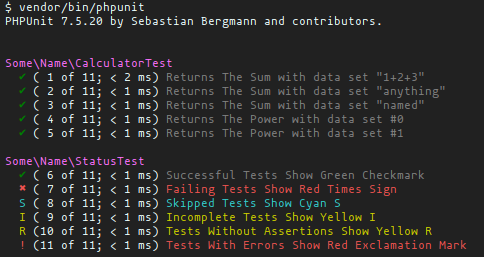
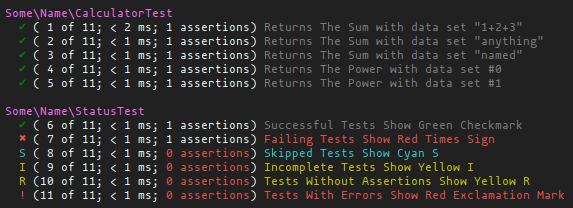
add assertion count to output

Changed region(s): [[0.0, 0.0, 0.9917, 0.9808], [0.8988, 0.0865, 0.9298, 0.1154]]

diff --git a/src/TextPrinter.php b/src/TextPrinter.php
@@ -9,20 +9,8 @@ use PHPUnit\TextUI\ResultPrinter;
 
 class TextPrinter extends ResultPrinter
 {
-    /**
-     * Replacement symbols for test statuses.
-     *
-     * @var array
-     */
-    protected static $symbols = [
-        'E' => "\e[31m!\e[0m", // red !
-        'F' => "\e[31m\xe2\x9c\x96\e[0m", // red X
-        'W' => "\e[33mW\e[0m", // yellow W
-        'I' => "\e[33mI\e[0m", // yellow I
-        'R' => "\e[33mR\e[0m", // yellow R
-        'S' => "\e[36mS\e[0m", // cyan S
-        '.' => "\e[32m\xe2\x9c\x94\e[0m", // green checkmark
-    ];
+    /** @var array Replacement symbols for test statuses */
+    protected $symbols;
 
     /** @var string */
     protected $testRow = '';
@@ -33,14 +21,34 @@ class TextPrinter extends ResultPrinter
     /** @var int */
     protected $maxDuration = 1;
 
+    public function __construct(
+        $out = null,
+        bool $verbose = false,
+        string $colors = self::COLOR_DEFAULT,
+        bool $debug = false,
+        $numberOfColumns = 80,
+        bool $reverse = false
+    ) {
+        parent::__construct($out, $verbose, $colors, $debug, $numberOfColumns, $reverse);
+        $this->symbols = [
+            'E' => $this->colorizeTextBox('fg-red', '!'),
+            'F' => $this->colorizeTextBox('fg-red', "\xe2\x9c\x96"),
+            'W' => $this->colorizeTextBox('fg-yellow', 'W'),
+            'I' => $this->colorizeTextBox('fg-yellow', 'I'),
+            'R' => $this->colorizeTextBox('fg-yellow', 'R'),
+            'S' => $this->colorizeTextBox('fg-cyan', 'S'),
+            '.' => $this->colorizeTextBox('fg-green', "\xe2\x9c\x94"),
+        ];
+    }
+
     /**
      * {@inheritdoc}
      */
     protected function writeProgress(string $progress): void
     {
         $this->numTestsRun++;
-        if ($this->hasReplacementSymbol($progress)) {
-            $progress = static::$symbols[$progress];
+        if (in_array($progress, array_keys($this->symbols))) {
+            $progress = $this->symbols[$progress];
         }
 
         $this->write("  {$progress} {$this->testRow}" . PHP_EOL);
@@ -50,7 +58,7 @@ class TextPrinter extends ResultPrinter
      */
     public function addError(Test $test, \Throwable $e, float $time): void
     {
-        $this->buildTestRow(get_class($test), $test->getName(), $time, 'fg-red');
+        $this->buildTestRow($test, $time, 'fg-red');
         parent::addError($test, $e, $time);
     }
     /**
@@ -58,7 +66,7 @@ class TextPrinter extends ResultPrinter
      */
     public function addFailure(Test $test, AssertionFailedError $e, float $time): void
     {
-        $this->buildTestRow(get_class($test), $test->getName(), $time, 'fg-red');
+        $this->buildTestRow($test, $time, 'fg-red');
         parent::addFailure($test, $e, $time);
     }
     /**
@@ -66,7 +74,7 @@ class TextPrinter extends ResultPrinter
      */
     public function addWarning(Test $test, Warning $e, float $time): void
     {
-        $this->buildTestRow(get_class($test), $test->getName(), $time, 'fg-yellow');
+        $this->buildTestRow($test, $time, 'fg-yellow');
         parent::addWarning($test, $e, $time);
     }
     /**
@@ -74,7 +82,7 @@ class TextPrinter extends ResultPrinter
      */
     public function addIncompleteTest(Test $test, \Throwable $e, float $time): void
     {
-        $this->buildTestRow(get_class($test), $test->getName(), $time, 'fg-yellow');
+        $this->buildTestRow($test, $time, 'fg-yellow');
         parent::addIncompleteTest($test, $e, $time);
     }
     /**
@@ -82,7 +90,7 @@ class TextPrinter extends ResultPrinter
      */
     public function addRiskyTest(Test $test, \Throwable $e, float $time): void
     {
-        $this->buildTestRow(get_class($test), $test->getName(), $time, 'fg-yellow');
+        $this->buildTestRow($test, $time, 'fg-yellow');
         parent::addRiskyTest($test, $e, $time);
     }
     /**
@@ -90,7 +98,7 @@ class TextPrinter extends ResultPrinter
      */
     public function addSkippedTest(Test $test, \Throwable $e, float $time): void
     {
-        $this->buildTestRow(get_class($test), $test->getName(), $time, 'fg-cyan');
+        $this->buildTestRow($test, $time, 'fg-cyan');
         parent::addSkippedTest($test, $e, $time);
     }
     /**
@@ -98,8 +106,7 @@ class TextPrinter extends ResultPrinter
      */
     public function endTest(Test $test, float $time): void
     {
-        list($className, $methodName) = \PHPUnit\Util\Test::describe($test);
-        $this->buildTestRow($className, $methodName, $time);
+        $this->buildTestRow($test, $time);
         parent::endTest($test, $time);
     }
     /**
@@ -114,13 +121,13 @@ class TextPrinter extends ResultPrinter
     /**
      * Formats the results for a single test.
      *
-     * @param $className
-     * @param $methodName
-     * @param $time
-     * @param $color
+     * @param Test $test
+     * @param float $time
+     * @param string $color
      */
-    protected function buildTestRow($className, $methodName, $time, $color = 'fg-white')
+    protected function buildTestRow(Test $test, float $time, string $color = 'fg-white'): void
     {
+        list($className, $methodName) = \PHPUnit\Util\Test::describe($test);
         if ($className != $this->previousClassName) {
             $this->write(PHP_EOL . $this->colorizeTextBox('fg-magenta', $className) . PHP_EOL);
             $this->previousClassName = $className;
@@ -128,20 +135,22 @@ class TextPrinter extends ResultPrinter
 
         $testNumberLength = strlen($this->numTests);
         $this->testRow = sprintf(
-            "(%{$testNumberLength}d of %d; %s) %s",
+            "(%{$testNumberLength}d of %d; %s; %s) %s",
             $this->numTestsRun+1,
             $this->numTests,
             $this->formatTestDuration($time),
+            $this->formatAssertionCount($test->getNumAssertions()),
             $this->colorizeTextBox($color, "{$this->formatMethodName($methodName)}")
         );
     }
+
     /**
      * Makes the method name more readable.
      *
-     * @param $method
-     * @return mixed
+     * @param string $method
+     * @return string
      */
-    protected function formatMethodName($method)
+    protected function formatMethodName(string $method): string
     {
         $testDescription = ucfirst(
             $this->splitCamels(
@@ -153,23 +162,25 @@ class TextPrinter extends ResultPrinter
         }
         return $testDescription;
     }
+
     /**
      * Replaces underscores in snake case with spaces.
      *
-     * @param $name
+     * @param string $name
      * @return string
      */
-    protected function splitSnakes($name)
+    protected function splitSnakes(string $name): string
     {
         return str_replace('_', ' ', $name);
     }
+
     /**
      * Splits camel-cased names while handling caps sections properly.
      *
-     * @param $name
+     * @param string $name
      * @return string
      */
-    protected function splitCamels($name)
+    protected function splitCamels(string $name): string
     {
         return preg_replace('/(?<=[a-z])(?=[A-Z])|(?<=[A-Z])(?=[A-Z][a-z])/', ' $1', $name);
     }
@@ -177,10 +188,10 @@ class TextPrinter extends ResultPrinter
     /**
      * Colours the duration if the test took longer than 500ms.
      *
-     * @param $time
+     * @param float $time
      * @return string
      */
-    protected function formatTestDuration($time)
+    protected function formatTestDuration(float $time): string
     {
         $timeInMs = ceil($time * 1000);
         $this->maxDuration = max($timeInMs, $this->maxDuration);
@@ -191,13 +202,17 @@ class TextPrinter extends ResultPrinter
     }
 
     /**
-     * Verifies if we have a replacement symbol available.
+     * Colours the assertion count if it is 0
      *
-     * @param $progress
-     * @return bool
+     * @param int $count
+     * @return string
      */
-    protected function hasReplacementSymbol($progress)
+    protected function formatAssertionCount(int $count): string
     {
-        return in_array($progress, array_keys(static::$symbols));
+        $text = $count . ' assertions';
+        if ($count <= 0) {
+            $text = $this->colorizeTextBox('fg-red', $text);
+        }
+        return $text;
     }
 }
